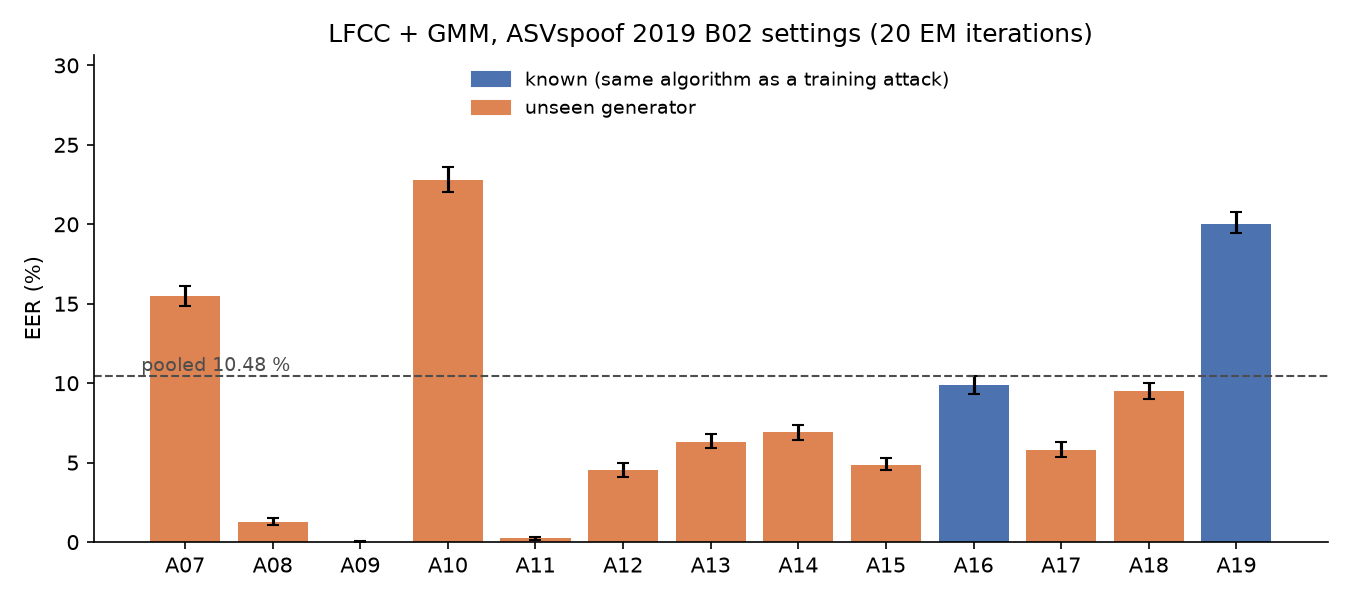
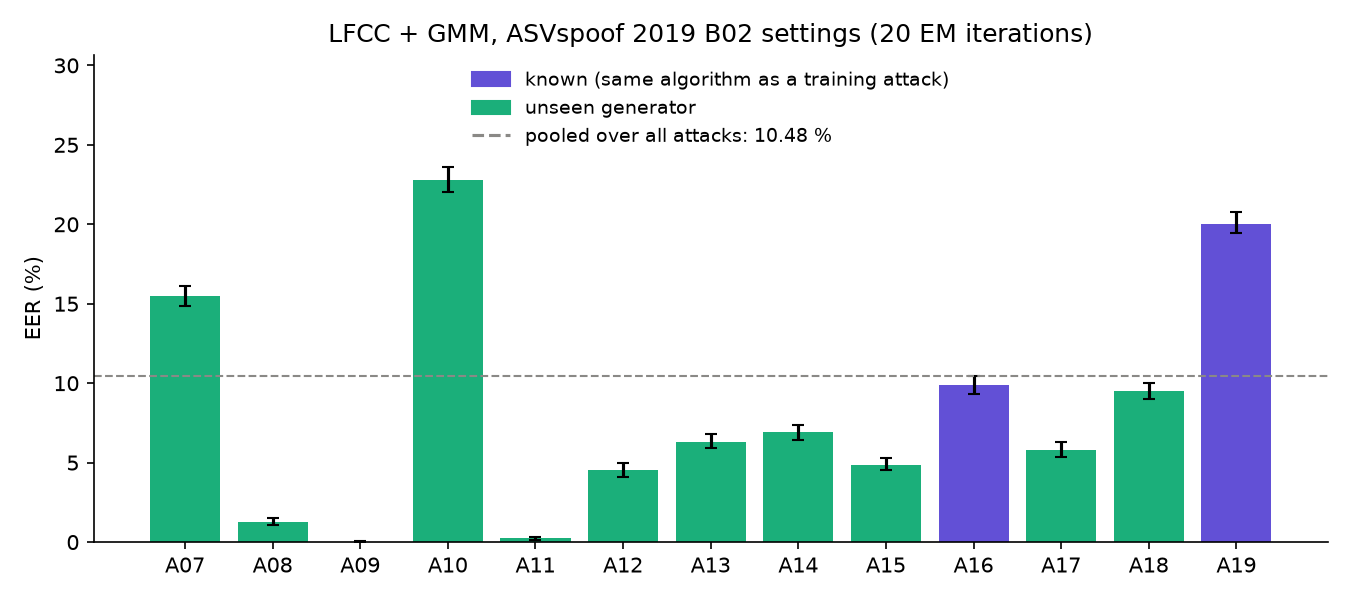
Recolour the figures: teal and violet, grey for the pooled line
The pooled value moves into the legend; as a text label on a white box it looked like a gap in the A07 bar.

diff --git a/scripts/plot_per_attack.py b/scripts/plot_per_attack.py
@@ -17,14 +17,17 @@ import matplotlib
 
 matplotlib.use("Agg")
 import matplotlib.pyplot as plt  # noqa: E402
+from matplotlib.lines import Line2D  # noqa: E402
 from matplotlib.patches import Patch  # noqa: E402
 import pandas as pd  # noqa: E402
 
 sys.path.insert(0, str(Path(__file__).resolve().parents[1] / "src"))
 from adg.protocols import EVAL_ATTACKS, KNOWN_EVAL_ATTACKS  # noqa: E402
 
-COLOR_KNOWN = "#4C72B0"
-COLOR_UNKNOWN = "#DD8452"
+# Two series: teal + violet. Blue and orange are kept for when nothing else is left.
+COLOR_KNOWN = "#6250d6"    # violet
+COLOR_UNKNOWN = "#1baf7a"  # teal
+COLOR_REFERENCE = "#8a8986"  # grey, for the pooled line
 
 
 def main() -> int:
@@ -45,13 +48,14 @@ def main() -> int:
     fig, ax = plt.subplots(figsize=(9, 4))
     ax.bar(attacks, sub["eer_pct"], color=colors, yerr=err, capsize=3)
     pooled = df.loc["pooled", "eer_pct"]
-    ax.axhline(pooled, color="0.3", linestyle="--", linewidth=1)
-    ax.text(-0.5, pooled, f"pooled {pooled:.2f} %", va="bottom", ha="left", fontsize=9, color="0.3")
+    ax.axhline(pooled, color=COLOR_REFERENCE, linestyle="--", linewidth=1)
     ax.set_ylim(0, 1.3 * float(sub["eer_high_pct"].max()))  # head room for the legend
     ax.set_ylabel("EER (%)")
     ax.set_title(args.title)
     ax.legend(handles=[Patch(color=COLOR_KNOWN, label="known (same algorithm as a training attack)"),
-                       Patch(color=COLOR_UNKNOWN, label="unseen generator")],
+                       Patch(color=COLOR_UNKNOWN, label="unseen generator"),
+                       Line2D([], [], color=COLOR_REFERENCE, linestyle="--",
+                              label=f"pooled over all attacks: {pooled:.2f} %")],
               frameon=False, fontsize=9, loc="upper center")
     ax.spines[["top", "right"]].set_visible(False)
     fig.tight_layout()

diff --git a/scripts/run_probes.py b/scripts/run_probes.py
@@ -34,9 +34,10 @@ from adg.protocols import load_partition  # noqa: E402
 
 def plot(table: pd.DataFrame, out_png: Path) -> None:
     fig, ax = plt.subplots(figsize=(8, 4))
-    styles = {"pooled": ("0.2", "o", "pooled (13 attacks)"),
-              "known (A16, A19)": ("#4C72B0", "s", "known attacks (A16, A19)"),
-              "unknown (11 attacks)": ("#DD8452", "^", "unseen attacks (11)")}
+    # teal, violet, magenta: blue and orange only once every other colour is used.
+    styles = {"pooled": ("#1baf7a", "o", "pooled (13 attacks)"),
+              "known (A16, A19)": ("#6250d6", "s", "known attacks (A16, A19)"),
+              "unknown (11 attacks)": ("#e87ba4", "^", "unseen attacks (11)")}
     for cond, (color, marker, label) in styles.items():
         sub = table[table["condition"] == cond].sort_values("layer")
         ax.plot(sub["layer"], sub["eer_pct"], marker=marker, color=color, label=label)
